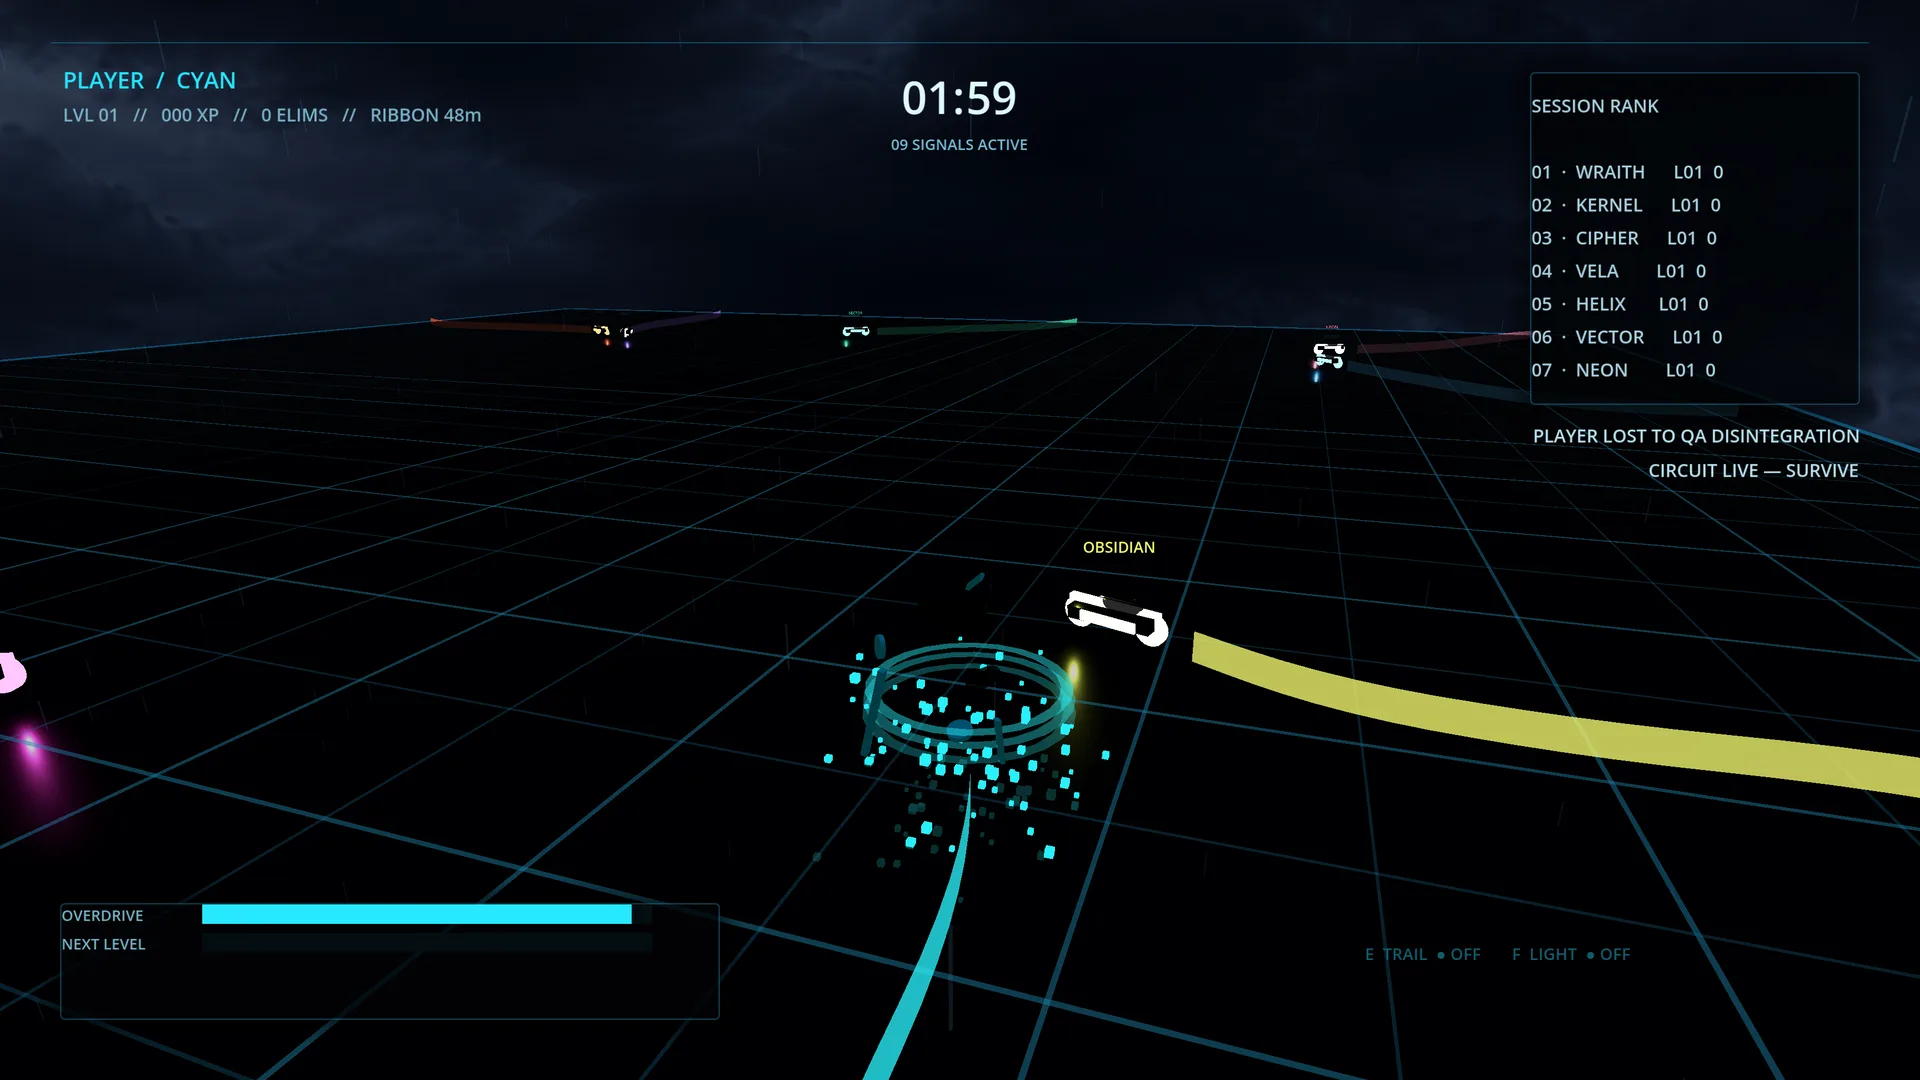
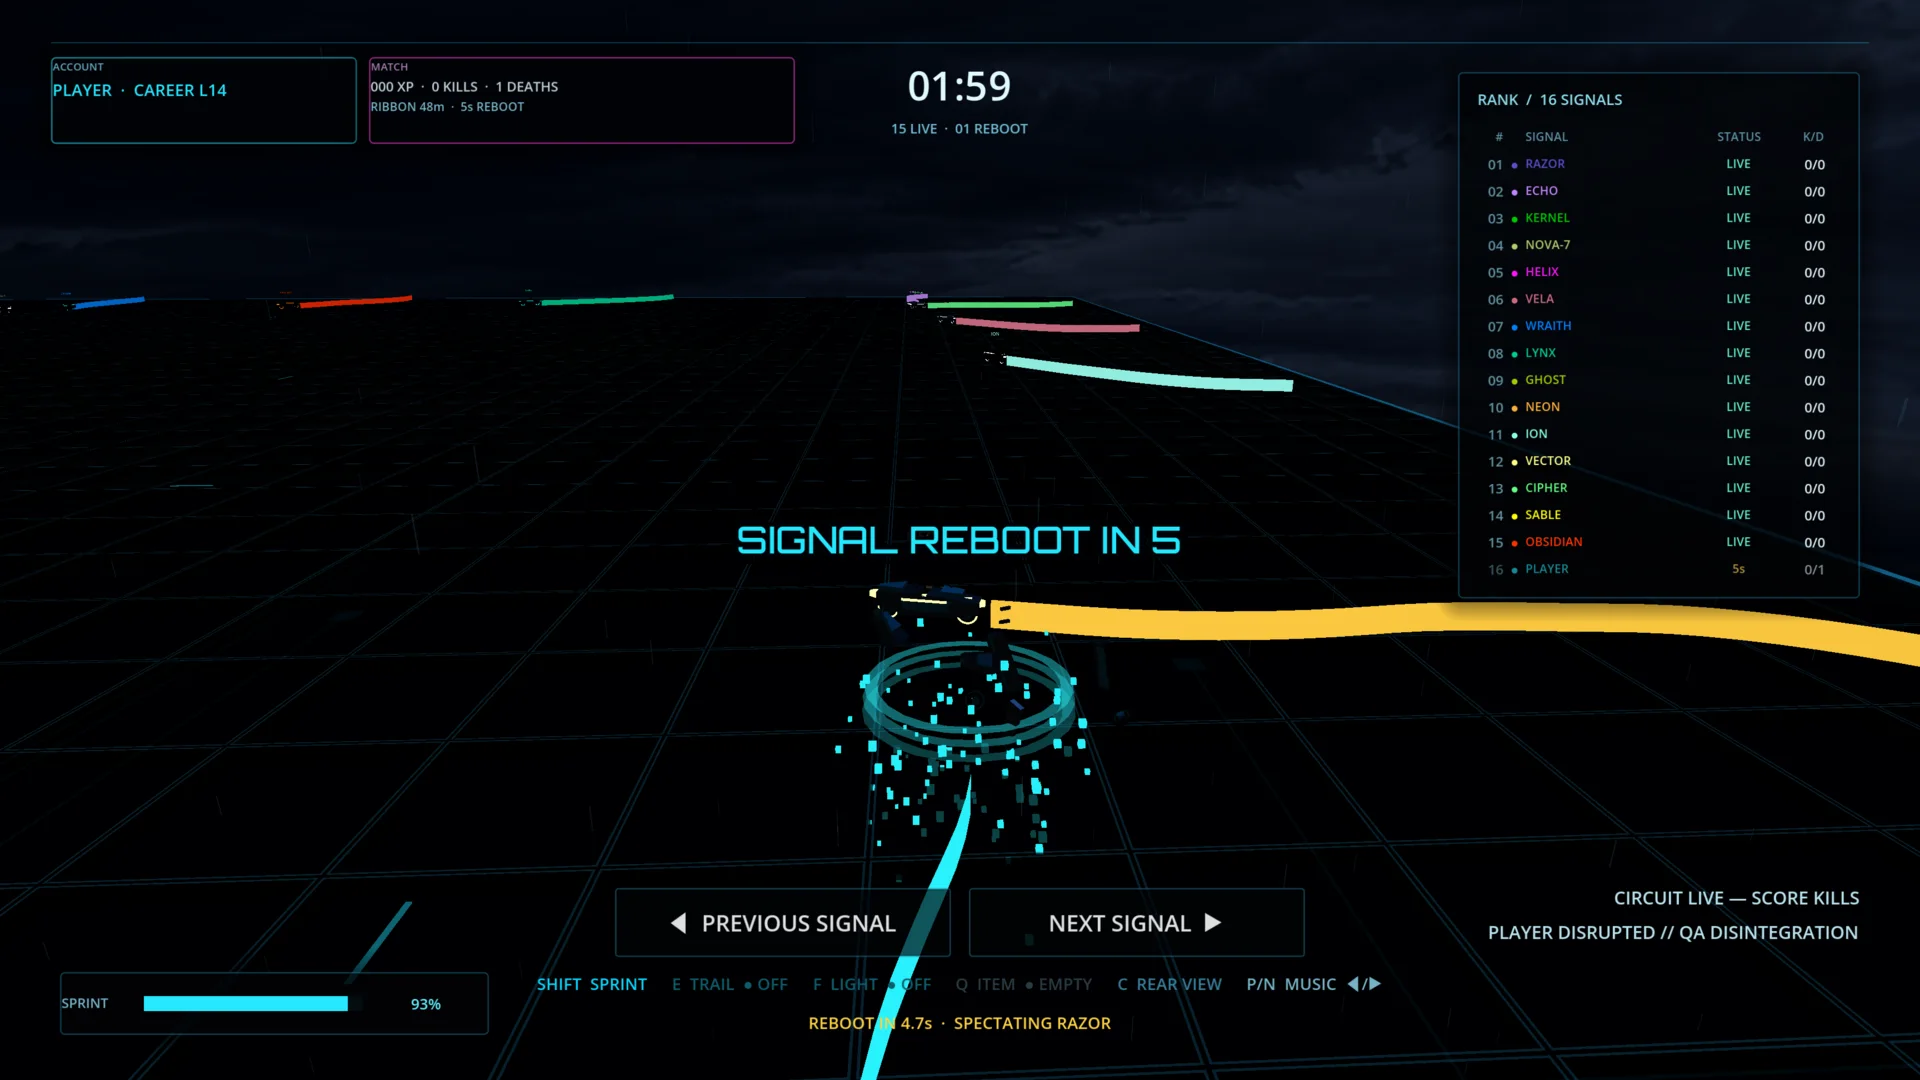
Refresh landing for Void0 0.17.0

diff --git a/index.html b/index.html
@@ -5,13 +5,13 @@
     <meta name="viewport" content="width=device-width, initial-scale=1.0" />
     <meta
       name="description"
-      content="Score eliminations, grow your ribbon, and rule a collapsing sixteen-signal Circuit in Void0."
+      content="Fight through Open Circuit, survive six Cut waves, and become the last signal above a collapsing sixteen-player grid in Void0."
     />
     <meta name="theme-color" content="#02060d" />
     <meta property="og:title" content="Void0" />
     <meta
       property="og:description"
-      content="Two minutes. Sixteen signals. Most eliminations wins."
+      content="Sixteen signals. Six Cut waves. One collapsing Circuit."
     />
     <meta property="og:type" content="website" />
     <meta property="og:url" content="https://void0zero.github.io/" />
@@ -45,14 +45,14 @@
         <div class="storm-flash" aria-hidden="true"></div>
         <div class="hero-grid" aria-hidden="true"></div>
         <div class="hero-content">
-          <p class="eyebrow reveal">Elimination protocol // v0.16.0</p>
+          <p class="eyebrow reveal">Cut protocol // v0.17.0</p>
           <h1 id="hero-title" class="wordmark reveal reveal-delay-1" aria-label="Void0">
             <span aria-hidden="true">Void</span><span class="slashed-zero" aria-hidden="true">0</span>
           </h1>
           <p class="hero-copy reveal reveal-delay-2">
             Every turn leaves a weapon behind. Break rival signals, grow your
-            ribbon, and own the highest elimination score before the Circuit
-            forces tied leaders into the void.
+            ribbon, and climb the K/D rank before six Cut waves erase the
+            lowest signals and send the finalists into a collapsing void.
           </p>
           <div class="hero-actions reveal reveal-delay-3">
             <a class="button button-primary" href="#downloads">
@@ -66,7 +66,7 @@
           <div class="protocol-strip reveal reveal-delay-3" aria-label="Game facts">
             <span><strong>16</strong> signals</span>
             <span><strong>02:00</strong> regulation</span>
-            <span><strong>05s</strong> reboot</span>
+            <span><strong>06</strong> Cut waves</span>
           </div>
         </div>
         <a class="scroll-cue" href="#game" aria-label="Explore Void0">
@@ -83,9 +83,9 @@
         </div>
         <p class="section-copy reveal">
           Sixteen riders launch from the perimeter of a translucent arena over
-          a bottomless void. Every rival you erase makes your ribbon longer,
-          brighter, and more valuable. A defeated signal reboots after five
-          seconds, but your elimination score never resets.
+          a bottomless void. Every kill makes your active ribbon longer and
+          more dangerous. Destruction retracts that trail and resets its
+          length, while your K/D and run XP survive the five-second reboot.
         </p>
 
         <figure class="cinematic-frame reveal">
@@ -96,35 +96,35 @@
             height="1080"
             loading="lazy"
           />
-          <figcaption><span>Live telemetry</span> Ribbon growth // 16 signals</figcaption>
+          <figcaption><span>Live telemetry</span> Rank // Signal // Status // K/D</figcaption>
         </figure>
       </section>
 
       <section class="release-panel section" aria-labelledby="release-title">
         <div class="section-heading reveal">
-          <p class="eyebrow">Version 0.16.0 // new rules</p>
-          <h2 id="release-title">The Circuit remembers every hit.</h2>
+          <p class="eyebrow">Version 0.17.0 // Cut protocol</p>
+          <h2 id="release-title">The Circuit now erases the field.</h2>
         </div>
         <div class="release-grid">
           <article class="release-card reveal">
-            <strong>05s</strong>
-            <h3>Signal reboot</h3>
-            <p>Return from the perimeter with your eliminations, XP, deaths, and ribbon growth intact.</p>
+            <strong>60s</strong>
+            <h3>Open Circuit</h3>
+            <p>Attack without elimination from the session. Destroyed signals reboot from the edge after five seconds.</p>
           </article>
           <article class="release-card reveal reveal-delay-1">
-            <strong>1st</strong>
-            <h3>Highest score wins</h3>
-            <p>Regulation ends at two minutes. Only riders tied for the elimination lead continue.</p>
+            <strong>06</strong>
+            <h3>Cut waves</h3>
+            <p>Every ten seconds, the two lowest-ranked signals are normally selected for permanent removal.</p>
           </article>
           <article class="release-card reveal reveal-delay-2">
-            <strong>∞</strong>
-            <h3>Signal Garage</h3>
-            <p>Equip the Voidrunner or Cosmic Pixel Cat without changing competitive handling or collision.</p>
+            <strong>FADE</strong>
+            <h3>Live warning</h3>
+            <p>Targeted rows flash in the rank before their signals become LOST. Score, survival, and state break ties.</p>
           </article>
           <article class="release-card reveal">
-            <strong>LIVE</strong>
-            <h3>Animated title</h3>
-            <p>Six cosmetic signals race, jump, lean, and write ribbons behind registration.</p>
+            <strong>REC</strong>
+            <h3>Match Aftermath</h3>
+            <p>Review placement, K/D, XP, survival, distance, awards, career progress, and all sixteen final signals.</p>
           </article>
         </div>
       </section>
@@ -182,6 +182,26 @@
             <p>The item is stored until your command. Timing is the mechanic.</p>
           </article>
         </div>
+        <div class="control-deck reveal" aria-label="Field controls">
+          <div class="control-deck-heading">
+            <span>Field controls // direct signal access</span>
+            <strong>Read the fight without leaving it.</strong>
+          </div>
+          <dl>
+            <div>
+              <dt>C</dt>
+              <dd><strong>Rear View</strong><span>Hold for an instant 180° view behind your signal.</span></dd>
+            </div>
+            <div>
+              <dt>P / N</dt>
+              <dd><strong>Music</strong><span>Move directly to the previous or next transmission.</span></dd>
+            </div>
+            <div>
+              <dt>Shift</dt>
+              <dd><strong>Sprint</strong><span>Spend the rechargeable boost for a short velocity burst.</span></dd>
+            </div>
+          </dl>
+        </div>
       </section>
 
       <section class="zero-phase section" aria-labelledby="zero-title">
@@ -198,14 +218,15 @@
           <p class="eyebrow">Collapse protocol // -00:00</p>
           <h2 id="zero-title">When the grid falls away.</h2>
           <p>
-            If the elimination lead is tied at 02:00, only those leaders enter
-            sudden death and reboots stop. Glass cells rise and digitize faster
-            every second until one leader remains—or falls last into the void.
+            After six Cut waves, the remaining finalists enter Sudden Death.
+            Reboots stop, the clock turns negative, and 1,849 glass cells
+            digitize from the outside in. The collapse accelerates for up to
+            two minutes until one signal remains—or falls last into the void.
           </p>
           <div class="zero-meter" aria-hidden="true">
             <span>1,849 cells</span>
             <i></i>
-            <strong>VOID</strong>
+            <strong>120s collapse</strong>
           </div>
         </div>
       </section>
@@ -216,18 +237,18 @@
             <p class="eyebrow">Circuit archive</p>
             <h2 id="gallery-title">Signals from the void.</h2>
           </div>
-          <p>Live combat, signal reboot, and digital erasure beneath the storm.</p>
+          <p>Live combat, final telemetry, and digital erasure beneath the storm.</p>
         </div>
         <div class="gallery-grid">
           <button class="gallery-item gallery-item-wide reveal" type="button" data-lightbox>
             <img
-              src="/images/respawn.webp"
-              alt="A destroyed signal waiting through its five-second reboot"
+              src="/images/aftermath.webp"
+              alt="Void0 Match Aftermath showing performance and the final rank of all sixteen signals"
               width="1920"
               height="1080"
               loading="lazy"
             />
-            <span>Signal reboot</span>
+            <span>Match Aftermath</span>
           </button>
           <button class="gallery-item reveal reveal-delay-1" type="button" data-lightbox>
             <img
@@ -242,12 +263,12 @@
           <button class="gallery-item reveal reveal-delay-2" type="button" data-lightbox>
             <img
               src="/images/destruction.webp"
-              alt="A rider disintegrating into digital fragments"
+              alt="A signal disintegrating into digital fragments above the Circuit"
               width="1920"
               height="1080"
               loading="lazy"
             />
-            <span>Signal terminated</span>
+            <span>Signal Lost</span>
           </button>
         </div>
       </section>

diff --git a/src/style.css b/src/style.css
@@ -752,6 +752,99 @@ img {
     0 0 1.4rem rgba(156, 108, 255, 0.16);
 }
 
+.control-deck {
+  grid-column: 1 / -1;
+  margin-top: 2rem;
+  border: 1px solid var(--line);
+  background:
+    linear-gradient(135deg, rgba(38, 233, 255, 0.045), transparent 52%),
+    rgba(2, 8, 14, 0.72);
+}
+
+.control-deck-heading {
+  display: flex;
+  gap: 1.5rem;
+  align-items: center;
+  justify-content: space-between;
+  padding: 1.2rem 1.4rem;
+  font-family: var(--display);
+  text-transform: uppercase;
+  border-bottom: 1px solid var(--line);
+}
+
+.control-deck-heading span {
+  color: var(--cyan);
+  font-size: 0.68rem;
+  font-weight: 600;
+  letter-spacing: 0.16em;
+}
+
+.control-deck-heading strong {
+  color: rgba(217, 248, 255, 0.62);
+  font-size: 0.72rem;
+  font-weight: 500;
+  letter-spacing: 0.1em;
+}
+
+.control-deck dl {
+  display: grid;
+  grid-template-columns: repeat(3, 1fr);
+  margin: 0;
+}
+
+.control-deck dl > div {
+  display: grid;
+  grid-template-columns: auto 1fr;
+  gap: 1rem;
+  align-items: center;
+  min-width: 0;
+  padding: 1.5rem;
+  border-right: 1px solid var(--line);
+}
+
+.control-deck dl > div:last-child {
+  border-right: 0;
+}
+
+.control-deck dt {
+  min-width: 3.4rem;
+  padding: 0.65rem 0.7rem;
+  color: var(--cyan-soft);
+  font-family: var(--display);
+  font-size: 1rem;
+  font-weight: 600;
+  letter-spacing: 0.08em;
+  text-align: center;
+  border: 1px solid rgba(38, 233, 255, 0.44);
+  box-shadow: inset 0 -0.2rem rgba(0, 0, 0, 0.34);
+}
+
+.control-deck dd {
+  min-width: 0;
+  margin: 0;
+}
+
+.control-deck dd strong,
+.control-deck dd span {
+  display: block;
+}
+
+.control-deck dd strong {
+  color: #e7fbff;
+  font-family: var(--display);
+  font-size: 0.92rem;
+  font-weight: 500;
+  letter-spacing: 0.08em;
+  text-transform: uppercase;
+}
+
+.control-deck dd span {
+  margin-top: 0.25rem;
+  color: var(--muted);
+  font-size: 0.78rem;
+  line-height: 1.5;
+}
+
 .zero-phase {
   display: grid;
   grid-template-columns: minmax(0, 1.1fr) minmax(20rem, 0.7fr);
@@ -1311,6 +1404,24 @@ footer > p:nth-child(2) {
 
   .system-card {
     min-height: 16rem;
+  }
+
+  .control-deck-heading {
+    align-items: flex-start;
+    flex-direction: column;
+  }
+
+  .control-deck dl {
+    grid-template-columns: 1fr;
+  }
+
+  .control-deck dl > div {
+    border-right: 0;
+    border-bottom: 1px solid var(--line);
+  }
+
+  .control-deck dl > div:last-child {
+    border-bottom: 0;
   }
 
   .gallery-grid {

diff --git a/README.md b/README.md
@@ -7,9 +7,10 @@ the public rolling release tagged `void0-latest` from
 [`romajs/game-downloads`](https://github.com/romajs/game-downloads), then
 connects each platform button to the matching package.
 
-The current presentation tracks Void0 v0.16.0: two-minute elimination
-regulation, five-second signal reboots, tied-leaders sudden death, six stored
-power-ups, the Signal Garage, and the animated title Circuit.
+The current presentation tracks Void0 v0.17.0: a 60-second Open Circuit,
+five-second signal reboots, six Cut waves across the final regulation minute,
+four-finalist Sudden Death, six stored power-ups, direct Rear View, soundtrack
+controls, and the full Match Aftermath.
 
 ## Local development
 
